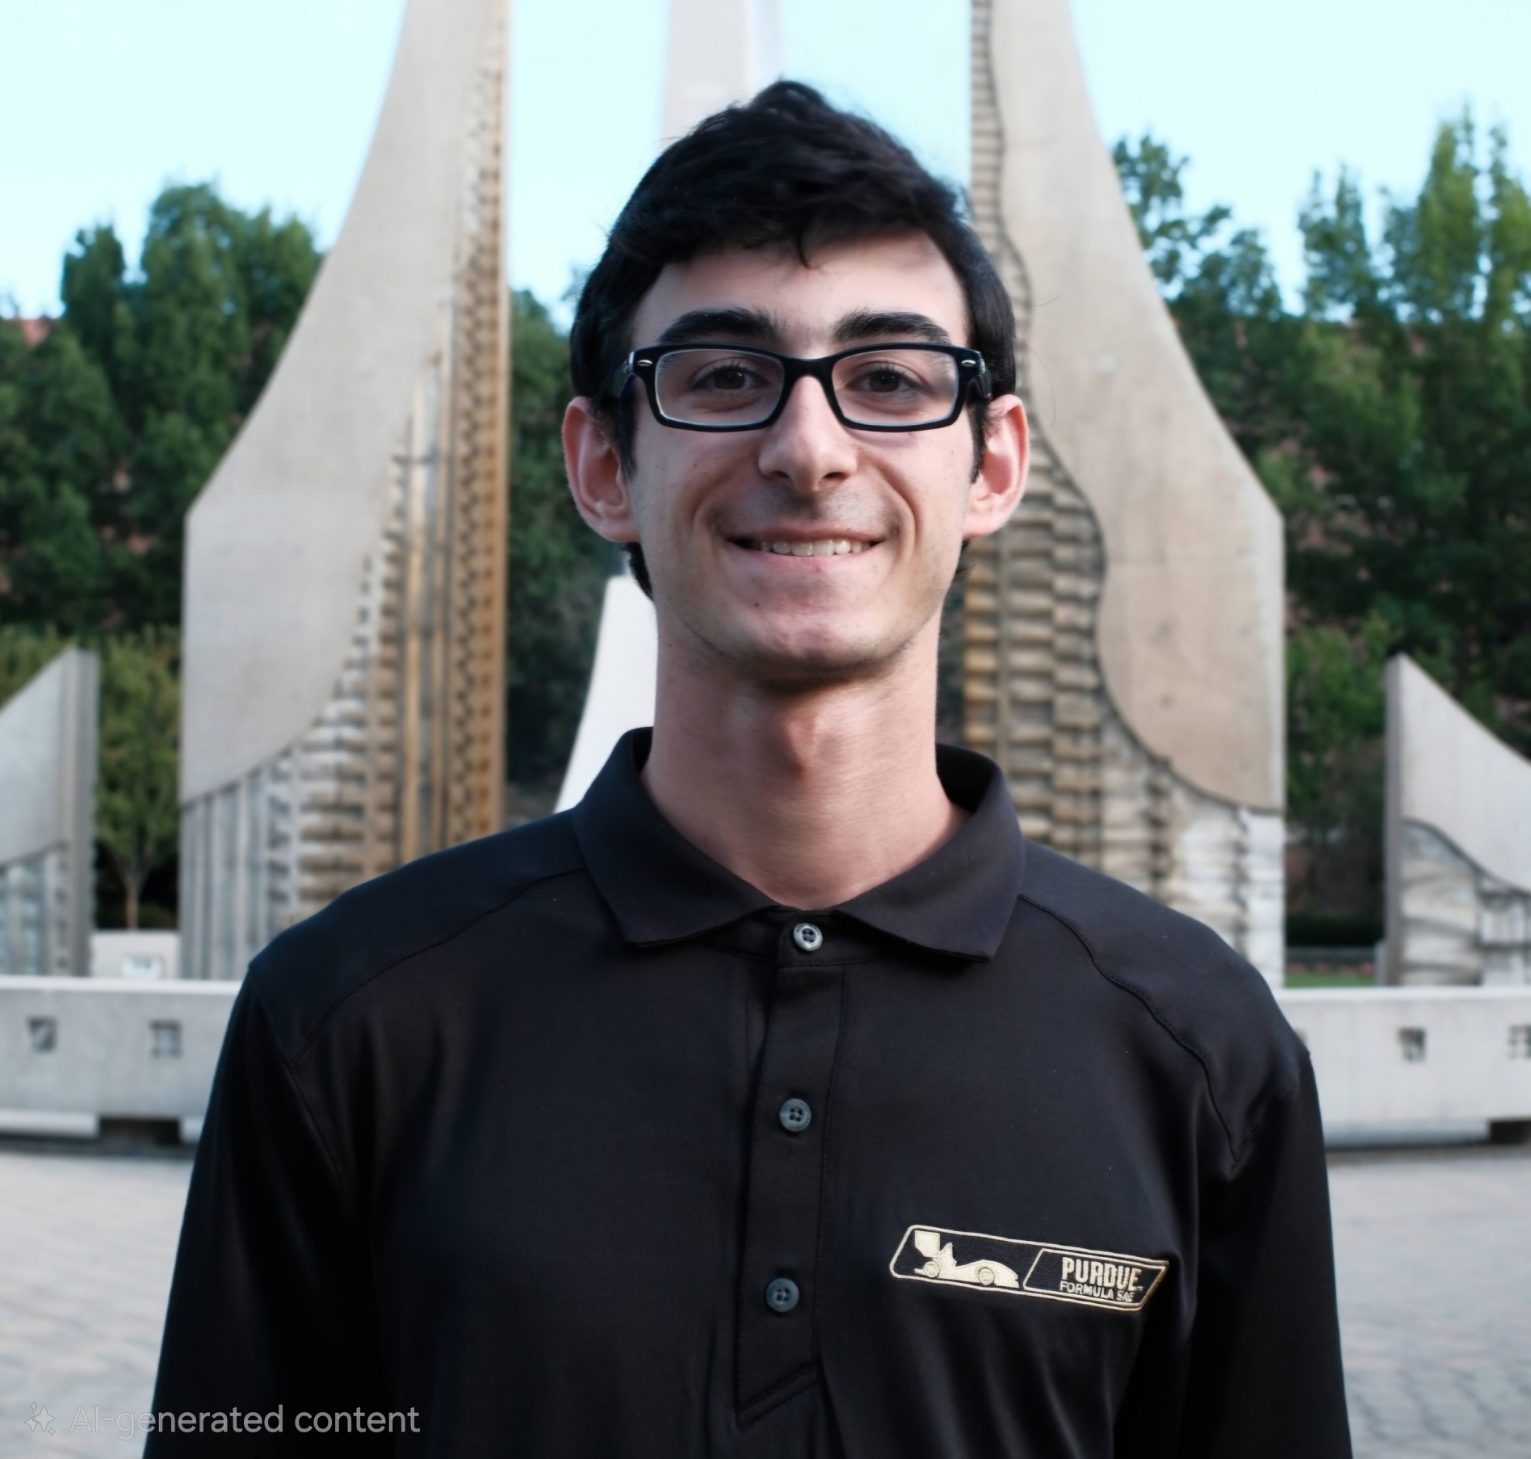
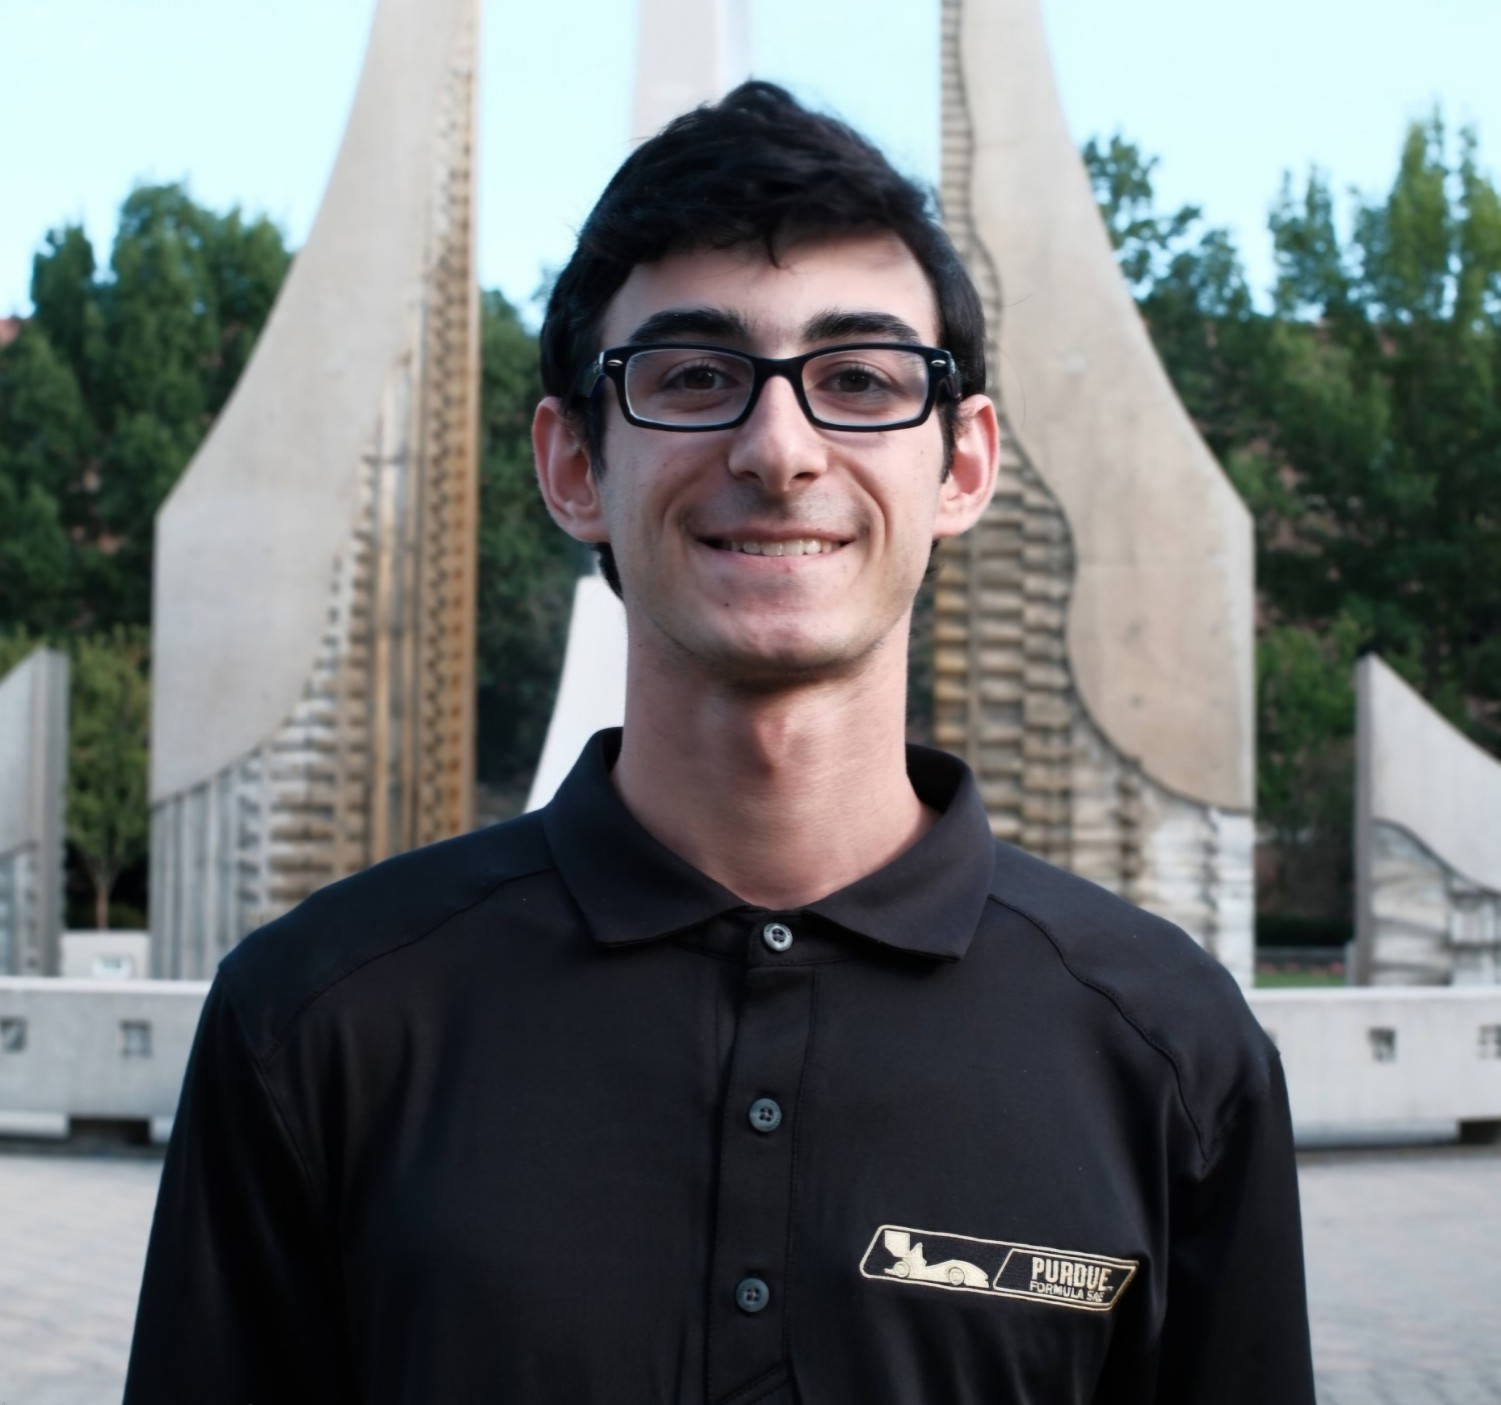
Mixc fixes

diff --git a/index.html b/index.html
@@ -39,7 +39,7 @@
                     <img class="icon" src="icons/pi.svg" alt="raspberry pi icon"></img>
                     <img class="icon" src="icons/ansys.svg" alt="ansys icon"></img>
                 </div>
-                <div style="pointer-events: none;">
+                <div style="pointer-events: none;" class="index_video">
                     <iframe
                         src="https://www.youtube.com/embed/v4ieLffUDqw?autoplay=1&mute=1&loop=1&playlist=v4ieLffUDqw&modestbranding=1&rel=0&controls=0"
                         allow="accelerometer; autoplay; clipboard-write; encrypted-media; gyroscope; picture-in-picture"
@@ -63,7 +63,7 @@
                     <img class="icon" src="icons/unity.svg" alt="unity icon"></img>
                     <img class="icon" src="icons/matlab.svg" alt="matlab icon"></img>
                 </div>
-                <div style="pointer-events: none;">
+                <div style="pointer-events: none;" class="index_video">
                     <iframe
                         src="https://www.youtube.com/embed/m4YMiJzE8uI?autoplay=1&mute=1&loop=1&playlist=m4YMiJzE8uI&modestbranding=1&rel=0&controls=0"
                         allow="accelerometer; autoplay; clipboard-write; encrypted-media; gyroscope; picture-in-picture"
@@ -83,11 +83,11 @@
                     <img class="icon" src="icons/fusion.svg" alt="fusion icon"></img>
                     <img class="icon" src="icons/laser.svg" alt="laser icon"></img>
                 </div>
-                <div style="pointer-events: none;">
+                <div style="pointer-events: none;" class="index_video">
                     <iframe
-                        src="https://www.youtube.com/embed/HWpNDMWBaKU?autoplay=1&mute=1&loop=1&playlist=HWpNDMWBaKU&modestbranding=1&rel=0&controls=0"
+                        src="https://www.youtube.com/embed/bNYcSbkp4vE?autoplay=1&mute=1&loop=1&playlist=bNYcSbkp4vE&modestbranding=1&rel=0&controls=0"
                         allow="accelerometer; autoplay; clipboard-write; encrypted-media; gyroscope; picture-in-picture"
-                        title="Leviathan Renders"
+                        title="Rotating assembly documentation"
                         style="pointer-events: none;"
                     ></iframe>    
                 </div>

diff --git a/portfolio.css b/portfolio.css
@@ -58,6 +58,17 @@ nav a:hover {
     cursor: pointer;            /* Show pointer on hover */
 }
 
+.page_link > div:first-child {
+    flex: 1;
+    min-width: 0;
+}
+
+.page_link > .index_video {
+    float: none;
+    flex-shrink: 0;
+    margin-left: auto;
+}
+
 .page_link:hover {
     border: 12px solid rgb(92, 18, 152);
 }
@@ -233,8 +244,13 @@ em {
 #blurb img {
     border: 3px solid black;
     border-radius: 10px;
-    width: 30%;
+    width: 45%;
     max-width: 200px;
+}
+
+.index_video {
+    float: right;
+    margin-left: 1em;
 }
 
 details {
